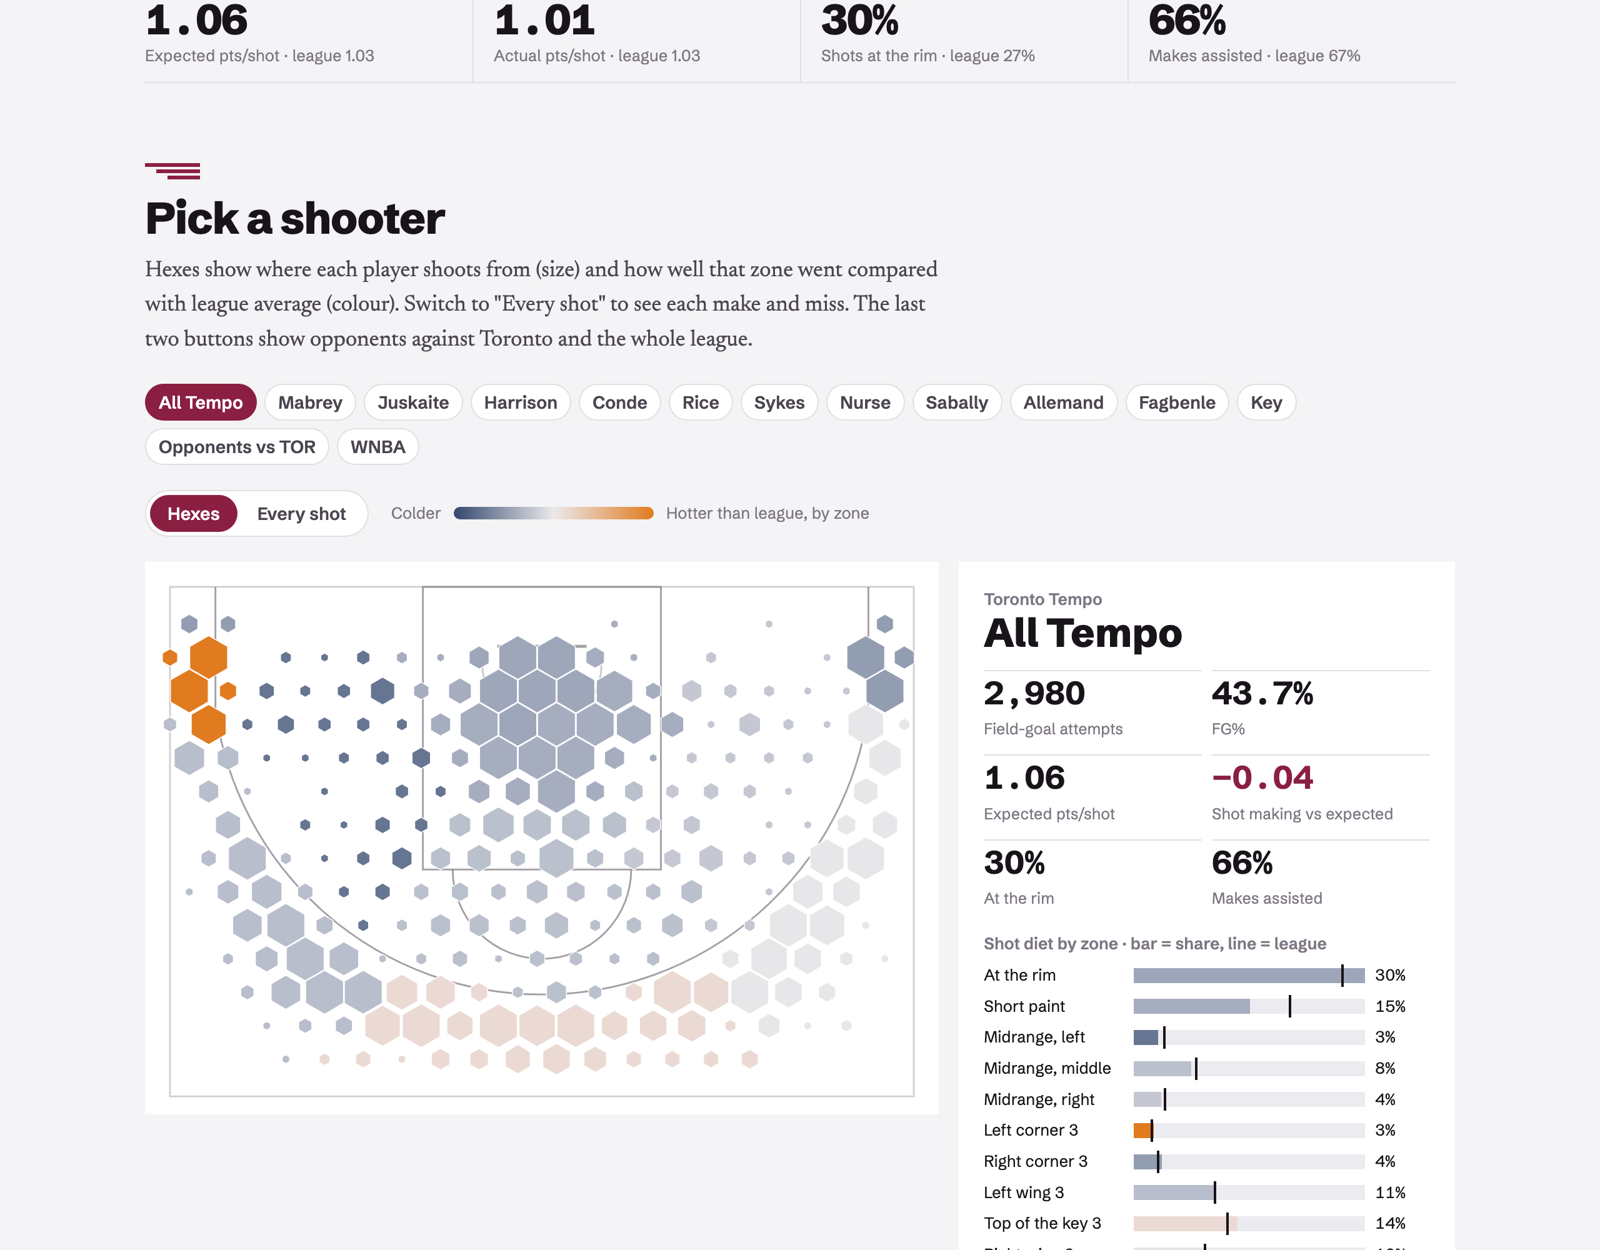
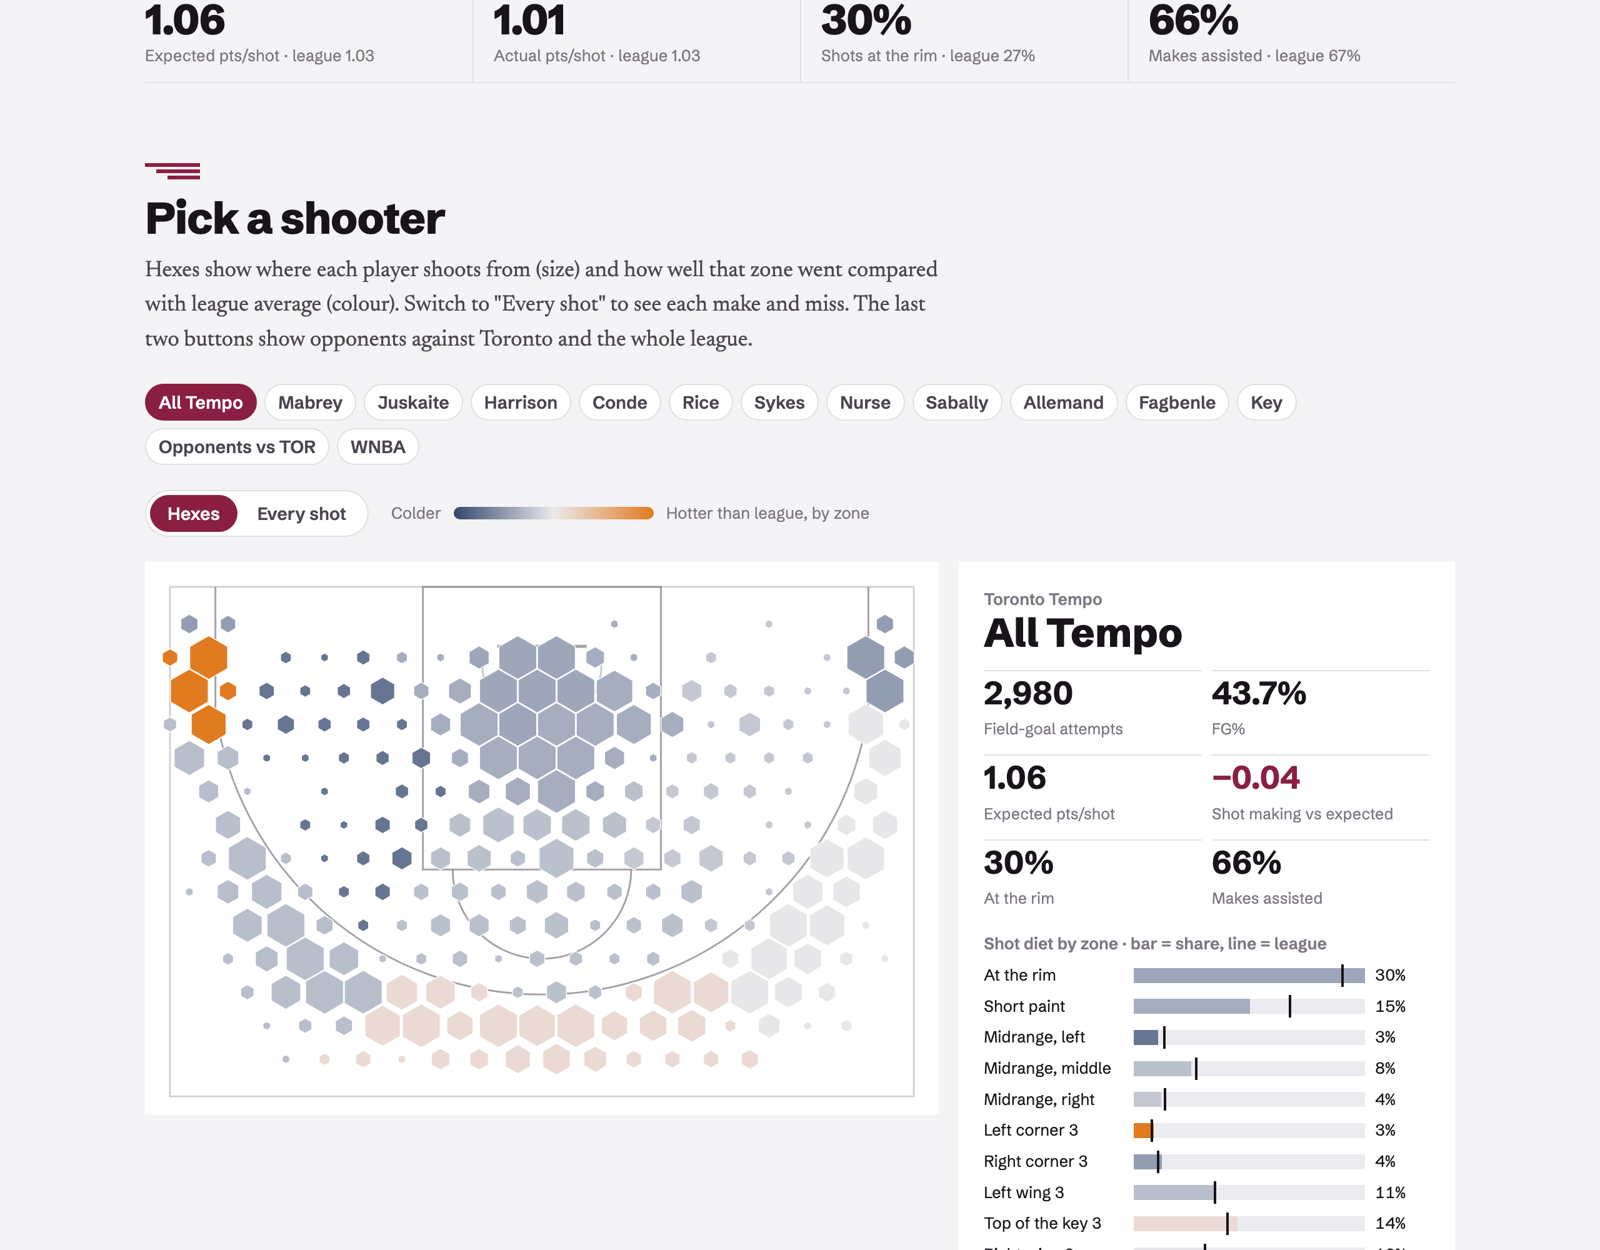
Use proportional figures for big standalone numbers so decimals don't gap

diff --git a/docs/assets/site.css b/docs/assets/site.css
@@ -62,6 +62,8 @@ a { color: var(--tor); text-underline-offset: 3px; }
 .eyebrow { font-family: var(--ui); font-size: 0.82rem; font-weight: 600; color: var(--ink-3); letter-spacing: 0; }
 .dek { font-size: 1.22rem; color: var(--ink-2); max-width: 60ch; }
 .num { font-family: var(--ui); font-variant-numeric: tabular-nums; }
+/* big standalone figures don't need to line up in columns, so give the decimal point its natural width */
+b.num, .kv b, .card .rec, .series .big { font-variant-numeric: proportional-nums; }
 .muted { color: var(--ink-3); }
 
 /* site nav */
@@ -117,7 +119,7 @@ a { color: var(--tor); text-underline-offset: 3px; }
 .stat-row { display: grid; grid-template-columns: repeat(4, minmax(0, 1fr)); border-top: 1px solid var(--ink); border-bottom: 1px solid var(--rule); font-family: var(--ui); }
 .stat { padding: 12px 16px 12px 0; display: grid; gap: 4px; min-width: 0; align-content: start; }
 .stat + .stat { padding-left: 16px; border-left: 1px solid var(--rule); }
-.stat .v { font-family: var(--display); font-weight: 800; font-size: 2.1rem; line-height: 1; letter-spacing: -0.03em; font-variant-numeric: tabular-nums; }
+.stat .v { font-family: var(--display); font-weight: 800; font-size: 2.1rem; line-height: 1; letter-spacing: -0.03em; font-variant-numeric: proportional-nums; }
 .stat .k { font-size: 0.8rem; color: var(--ink-3); line-height: 1.35; }
 
 /* segmented buttons */
